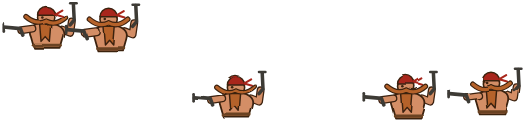
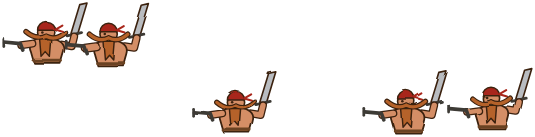
Pirates hold a pistol and a cutlass, as their model does

Changed region(s): [[0.6705, 0.4918, 1.0, 1.0], [0.0, 0.0, 0.3048, 0.5164], [0.3352, 0.5164, 0.5181, 0.9836]]

diff --git a/tools/web_art.py b/tools/web_art.py
@@ -893,8 +893,8 @@ CREW_PLACES = [(x, y) for x, y in art.RIFLE_PLACES if (x, y + 2) != MALAKAI_AT]
 #   a dwarf        1.4 to 1.5 high and 1.4 across the hanging arms; the head with its beard is a third of the height, the shoulders nearly as wide as
 #                  the dwarf is tall, the legs a quarter. Behind the rail he shows from the belt up: a wide block of shoulders, a big head set low.
 #   pirates        dwf_slayer_pirates: a bare bald head with a headscarf knotted behind, a huge moustache standing out to both sides, a beard in
-#                  thick plaits over a bare chest, bracers; no helm, no crest. A flintlock pistol with a flared muzzle, half his height, in each hand.
-#                  Told by: bare skin, the moustache's bar across the face, two short guns held out.
+#                  thick plaits over a bare chest, bracers; no helm, no crest. A flintlock pistol with a flared muzzle, half his height, in one hand, a broad cutlass nearly his height in the other.
+#                  Told by: bare skin, the moustache's bar across the face, the short gun held out and the blade raised.
 #   quarrellers, thunderers, grudge-rakers    one body (dwf_warriors): a round helm with two horns up and a spike, a plaited beard to the belt, mail,
 #                  a skirt. Told only by the weapon: the crossbow (0.9 long, its bow 0.77 across), the rifle (1.3, nearly his height, thin), the
 #                  grudge-raker (1.4, a thick bundle of barrels with a drum behind).
@@ -922,10 +922,12 @@ def crew_figure(kind, x, y, s=1.0, detail=True):
     warrior = kind in ("quarrellers", "thunderers", "rakers")
     cloth = {"pirates": SKIN, "torpedoes": PLATE}.get(kind, MAIL)
     # the far arm and what lies behind the body
-    if kind == "pirates":               # the far arm bent up, its pistol held muzzle up beside the head
-        out += limb(f"M{P(9, -12)} L{P(14, -10)} L{P(15, -17)}", SKIN)
-        out.append(line(f"M{P(14, -15)} L{P(16.5, -18)} L{P(16, -28)}", 2.2, color=BARREL))
-        out.append(line(f"M{P(14, -28.5)} L{P(18, -28.5)}", 1.6, color=BARREL))
+    if kind == "pirates":
+        # the far arm raised with the cutlass (dwf_slayer_pirate_sword_1h: a broad straight blade nearly his height, the tip cut slanting, a small
+        # guard); the pistol is in the other hand
+        out.append(line(f"M{P(14.5, -19)} L{P(20, -37)} L{P(24.5, -38)} L{P(18.5, -18)} Z", 1.0, "#b9bcc0"))
+        out.append(line(f"M{P(12, -17.5)} L{P(21, -19.5)}", 1.8, color=BARREL))
+        out += limb(f"M{P(9, -12)} L{P(15, -11)} L{P(16.5, -17)}", SKIN)
     # the body: shoulders sloping from the neck, wider than the head
     out.append(line(f"M{P(-8, 0)} L{P(-10, -7)} Q {P(-12.5, -13)} {P(-5, -15.5)} L{P(4, -15.5)} Q {P(12, -13)} {P(10, -7)} L{P(8, 0)} Z", 1.1, cloth))
     if kind == "pirates":
